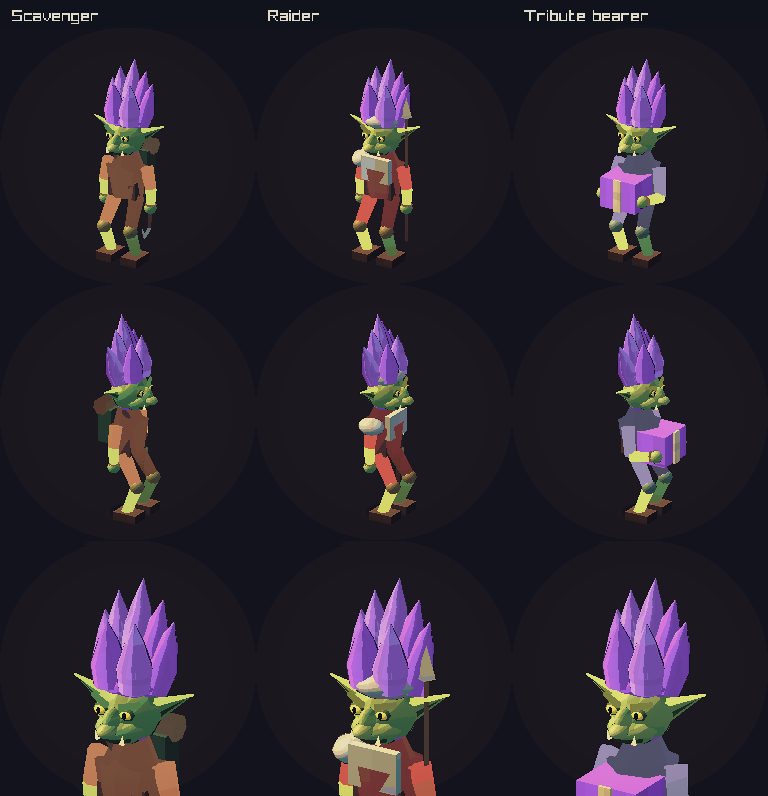
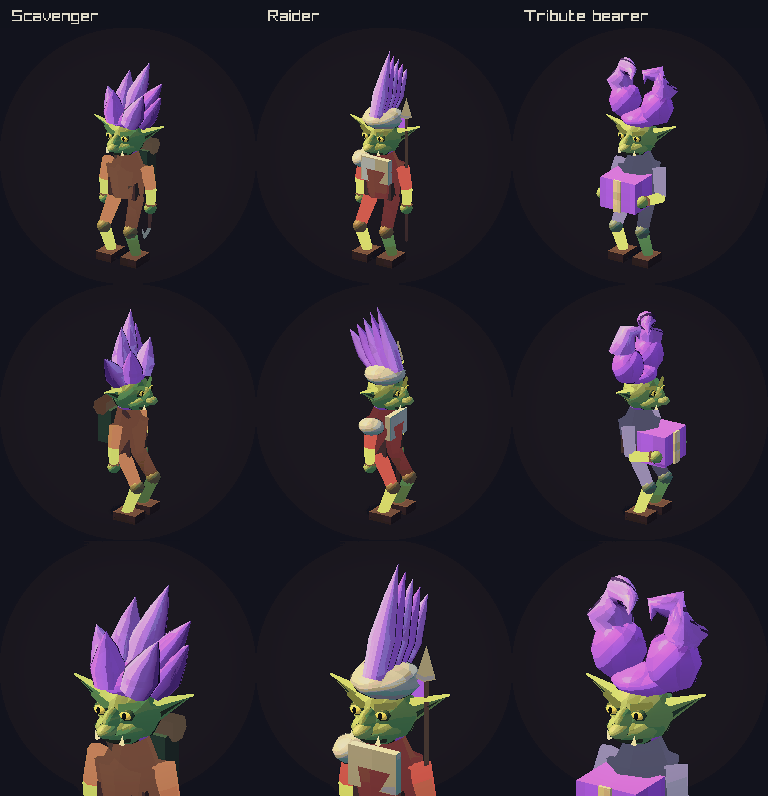
Give goblin roles distinct hair shapes

diff --git a/docs/reviews/creatures-2026-09-05/README.md b/docs/reviews/creatures-2026-09-05/README.md
@@ -8,7 +8,9 @@ The current world tracks one dragon and its goblin court. Live encounters read t
 
 ## Goblins
 
-All three roles have tall, bright hair inspired by Trolls toys. Wider ears, brows, pupils, a hooked nose, and small tusks make their faces clearer. The scavenger has a pack and hooked tool. The raider has armour and a spear. The tribute bearer holds its box in both hands.
+All three roles have bright hair inspired by Trolls toys. Scavengers have a messy side sweep, raiders have a narrow swept crest, and tribute bearers have curled bunches. Each style uses the court colour and moves with the goblin.
+
+Wider ears, brows, pupils, a hooked nose, and small tusks make their faces clearer. The scavenger has a pack and hooked tool. The raider has armour and a spear. The tribute bearer holds its box in both hands.
 
 ![Goblins after](goblins-after.png)
 
